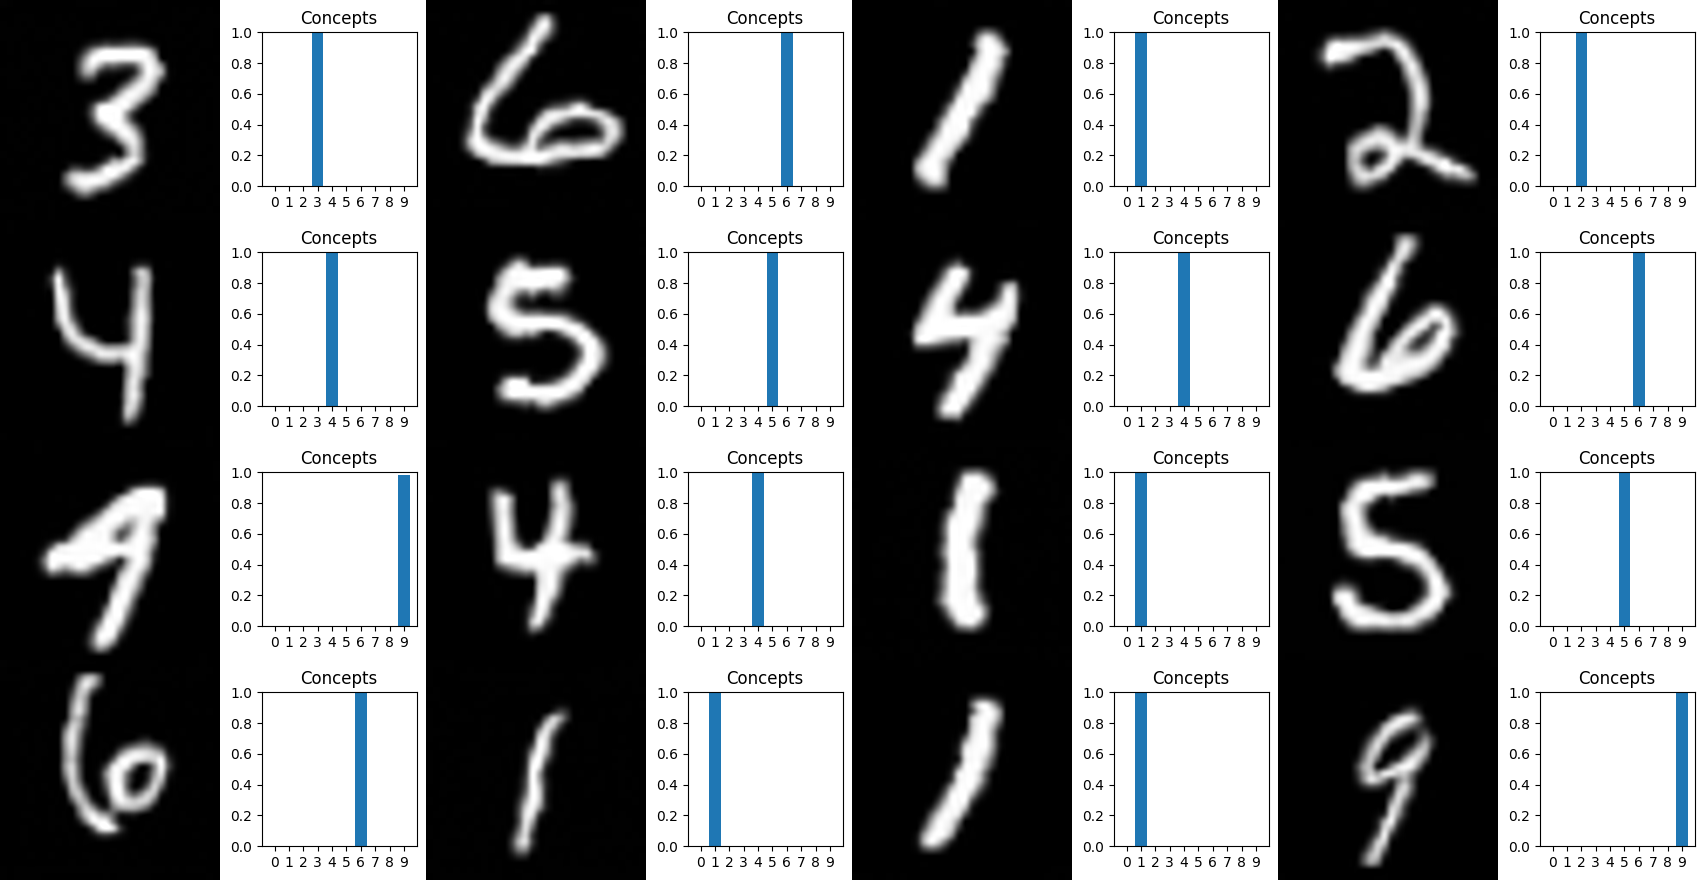
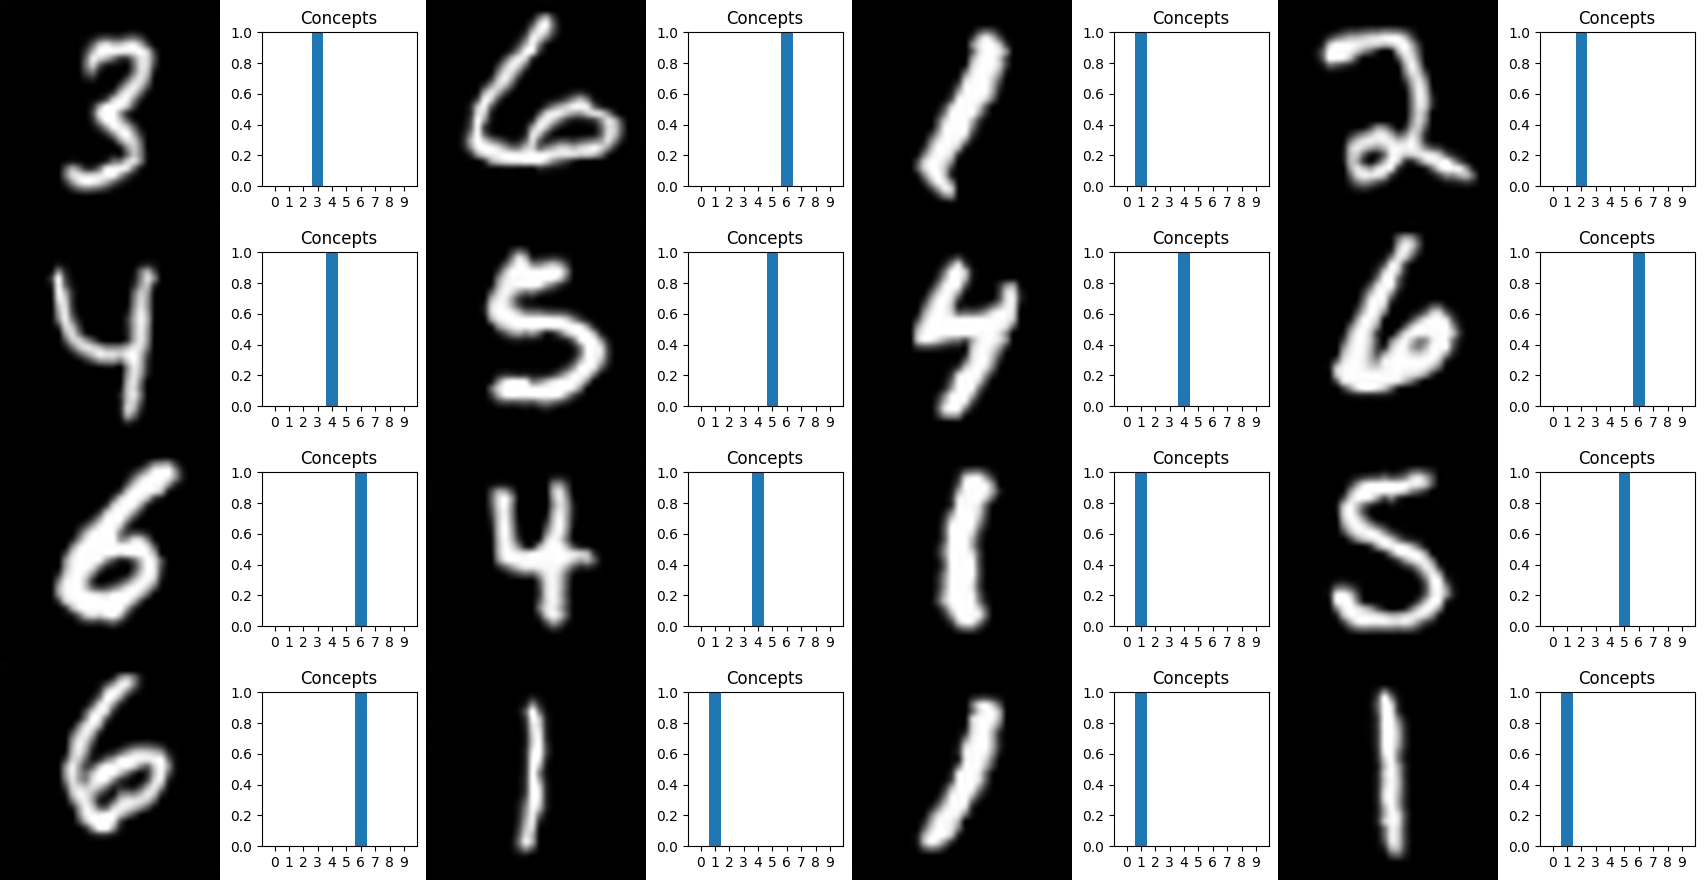
=Attention

diff --git a/experiments/CrossAttention.py b/experiments/CrossAttention.py
@@ -1,0 +1,36 @@
+import sys
+import os
+sys.path.append(os.path.abspath(os.path.join(os.getcwd(), '..')))
+from configs.diffusion_config import TrainingConfig,AttentionConfig
+#from models.UNet2DWithCBM import UNet2DWithCBM
+from models.UNet2DWithCBM_new import UNet2DWithCBM
+from models.CBM import CBM_new
+
+from data.dataloader import get_dataloader
+from train.trainCBM import train_loop
+
+from diffusers import DDPMScheduler
+from diffusers.optimization import get_cosine_schedule_with_warmup
+import torch
+
+
+
+
+def run():
+    model_name = sys.argv[1]
+
+    config = AttentionConfig()
+    model = UNet2DWithCBM(config,CBM_new)
+    dataloader = get_dataloader(config,concept=config.concept)
+    noise_scheduler = DDPMScheduler(num_train_timesteps=1000)
+    optimizer = torch.optim.AdamW(model.parameters(), lr=config.learning_rate)
+    lr_scheduler = get_cosine_schedule_with_warmup(
+        optimizer=optimizer,
+        num_warmup_steps=config.lr_warmup_steps,
+        num_training_steps=len(dataloader) * config.num_epochs,
+    )
+
+    train_loop(config, model, noise_scheduler, optimizer, dataloader, lr_scheduler,model_name=model_name)
+
+if __name__ == "__main__":
+    run()
